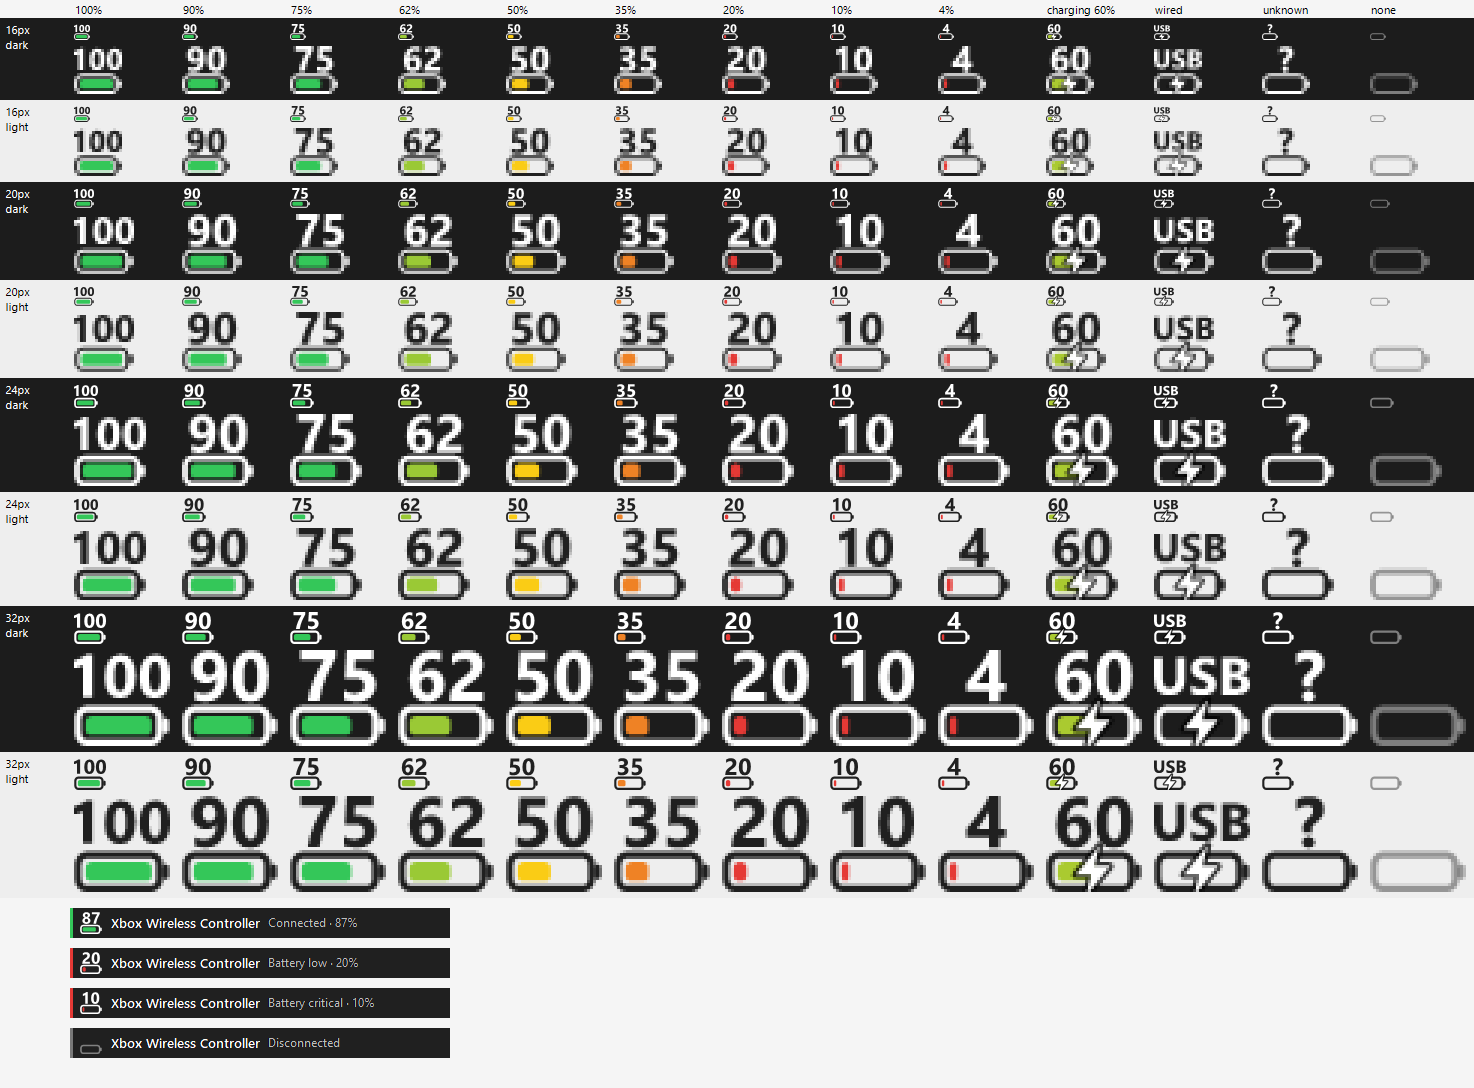
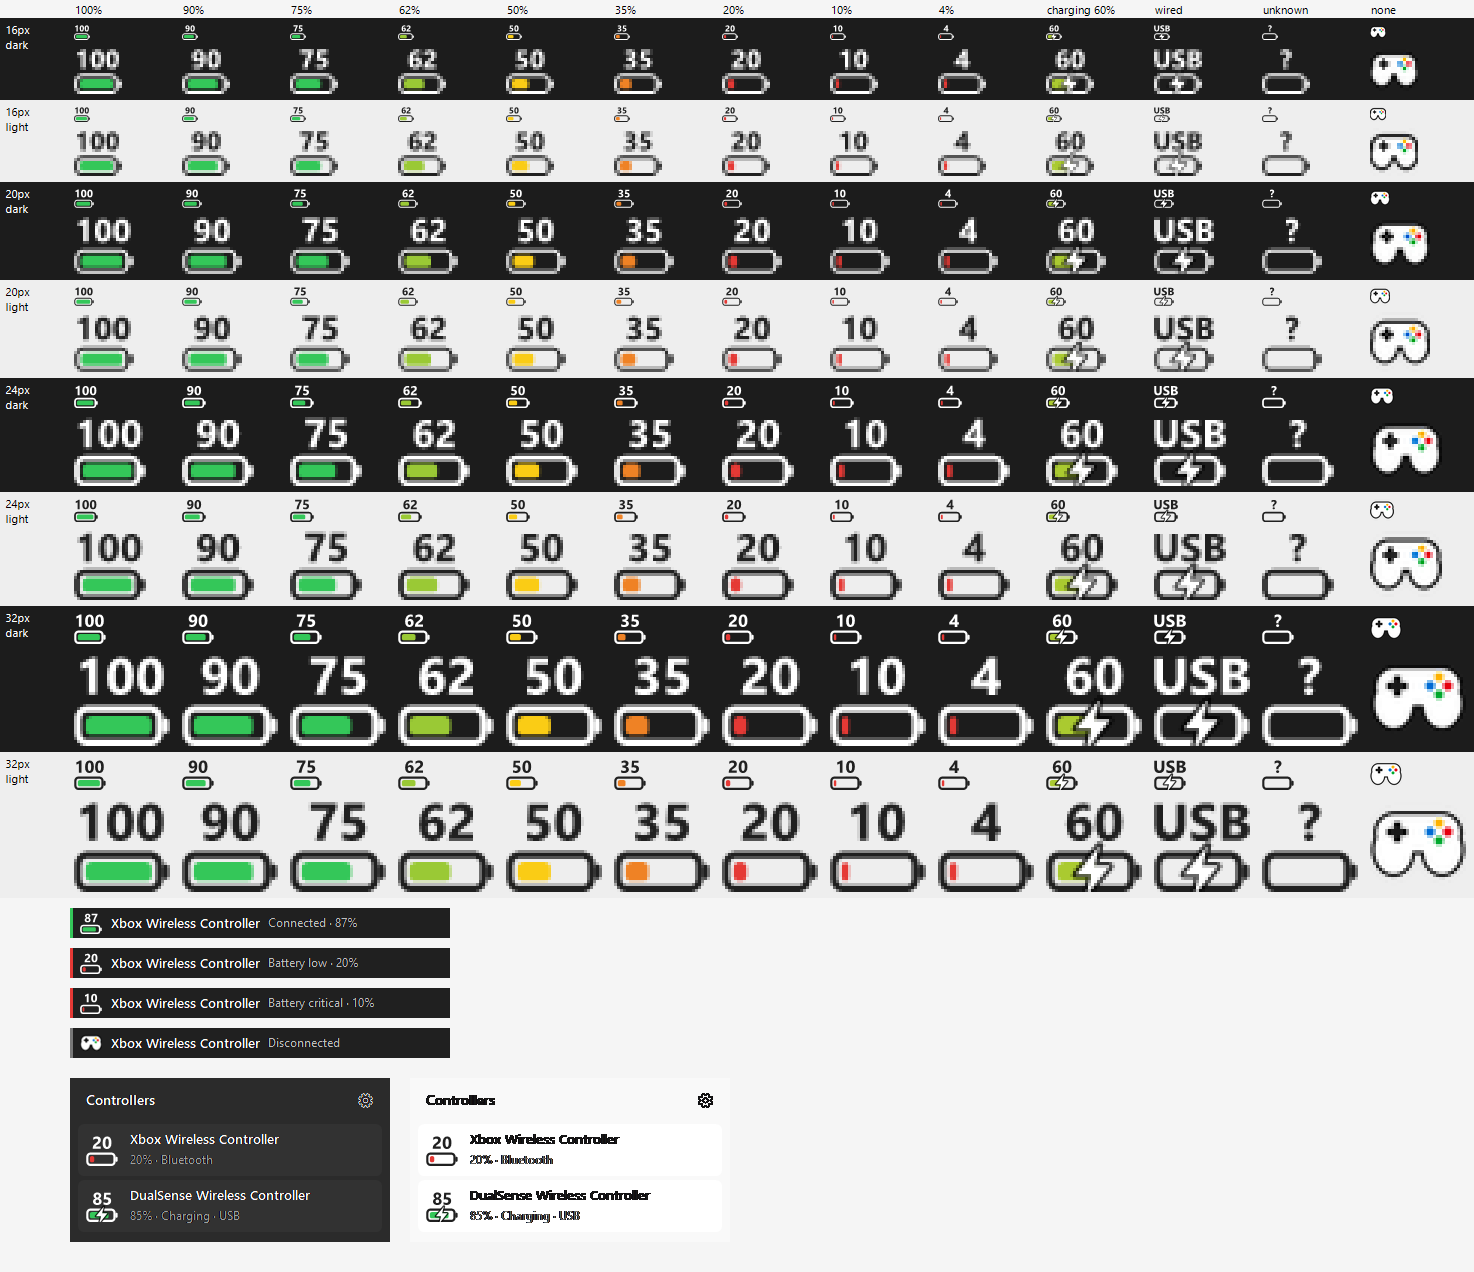
Refresh the README screenshot and describe the panel and settings
The icon sheet now shows the current digits, the app icon placeholder,
the slim pop-ups and the controller panel. The intro mentions
left-clicking for the panel and where the settings are.

diff --git a/README.md b/README.md
@@ -2,11 +2,13 @@
 
 Your controller's hit points, in the Windows taskbar.
 
-ControllerHP puts a battery meter in the notification area for your game controllers: the percentage on top, a meter underneath whose fill and colour track the charge (green → yellow → red), and a bolt through it while charging. Slim pop-ups in the top-right corner tell you when a controller connects or disconnects, and when its battery drops to 20% and 10%. Right-click the tray icon to move them to another corner or turn off the connect/disconnect ones.
+ControllerHP puts a battery meter in the notification area for your game controllers: the percentage on top, a meter underneath whose fill and colour track the charge (green → yellow → red), and a bolt through it while charging. Slim pop-ups in the top-right corner tell you when a controller connects or disconnects, and when its battery runs low (20% and 10% by default).
 
-With several controllers connected, one icon shows the controller with the lowest battery (charging ones go last), and hovering lists the rest. Right-click → **Tray icons** to show two, or one per controller.
+With several controllers connected, one icon shows the controller with the lowest battery (charging ones go last), and hovering lists the rest. Left-click the icon for a panel listing every controller with its charge and connection.
 
-![Icon states and pop-ups](docs/icon-preview.png)
+![Tray icons, pop-ups and the controller panel](docs/icon-preview.png)
+
+The gear in that panel, or **Settings…** in the right-click menu, opens the settings: how many tray icons to show, where pop-ups appear, whether connecting and disconnecting get one, the warning levels, and Start with Windows. It follows Windows' light or dark mode.
 
 ## Install
 
